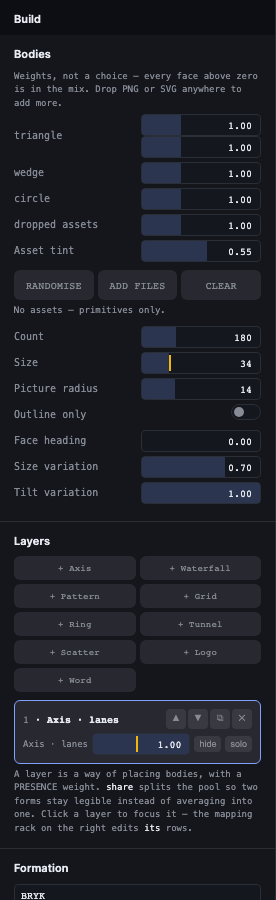
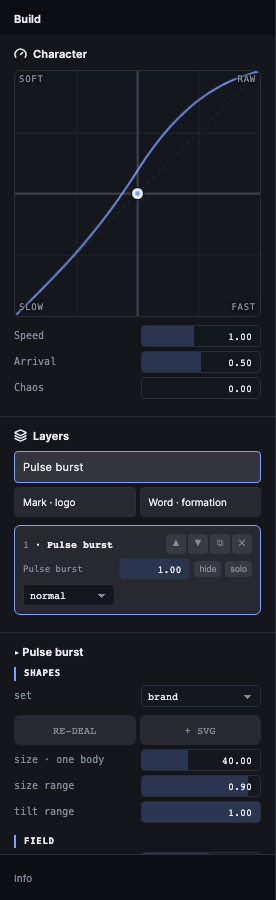
Distortion снят с панели, auto tilt и диапазон наклона тел
Панель Distortion · Vector убрана из левой колонки. Перед удалением проверил
UI-путь, которого мой гейт не касался ни разу (он ставил слоты в обход кнопки):
механически всё работало — нажатие создавало слот, силуэт менялся 160446 →
136227. Но «работает измеримо» и «работает» — разные вещи: на дефолтных
amount 0.35 / scale 1.6 liquid даёт мелкое зерно поверх и без того движущегося
поля, и эффект неотличим от собственной жизни сцены. Контрол, чей дефолт
незаметен, и есть контрол, который ничего не делает.

Математика оставлена в движке тем же приёмом, что диета пресетов: убран ВЫБОР,
не способность. Гейт переименован так, чтобы зелёная строка не читалась как
«в интерфейсе работает искажение» — она говорит только, что способность цела.

Auto tilt в Space. Копить наклон, как копится поворот, было бы неверно: поворот
живёт свободно, а наклон живёт в ±1 и означает, с какой стороны мы смотрим на
сцену — накопление уводило бы её через макушку раз за разом. Поэтому маятник:
у края ход разворачивается, сцена медленно качается и остаётся читаемой.
Замерено: −0.24 … 0.98, знак хода меняется, за предел не выходит.

Диапазон наклона тел выведен в основные ручки. Ручка была — varTilt, — но лежала
в свёрнутой секции между radius и tint под именем «tilt variation», то есть
ровно так, чтобы её никто не нашёл; отсюда и «непонятно, что на это влияет».
Теперь «tilt range» стоит третьей, сразу за калибром и его разбросом: это тот же
[…]

diff --git a/index.html b/index.html
@@ -538,6 +538,7 @@ legend svg{margin-right:6px;vertical-align:-2px;flex:none}
       <div class="row"><label>Zoom</label><span data-mnt="zoom"></span></div>
       <div class="row"><label>Tilt</label><span data-mnt="tilt"></span></div>
       <div class="row"><label title="Degrees per second the whole scene turns. Drivable from the rack as cam.spin">Auto spin</label><span data-mnt="spin"></span></div>
+      <div class="row"><label title="How fast the scene rocks through its tilt. Swings between the limits instead of tumbling over">Auto tilt</label><span data-mnt="sway"></span></div>
       <p class="note">Drag the stage to orbit, wheel to zoom, double-click to reset.</p>
     </fieldset>
 
@@ -568,13 +569,19 @@ legend svg{margin-right:6px;vertical-align:-2px;flex:none}
       <p class="note" id="assetNote">No assets — primitives only.</p>
     </fieldset>
 
-    <!-- Векторные искажения (Роб, видео 4:52). Место — ВНИЗУ ЛЕВОЙ колонки, как в
-         Synthex («слева-снизу» в его словах): это правка ГЕОМЕТРИИ слоя, а не
-         мастеринг кадра, поэтому живёт с тем, что описывает слой, а не с
-         пост-эффектами справа. Сначала я поставил её справа — мимо: там мастеринг. -->
-    <fieldset id="gDist"><legend>Distortion · Vector</legend>
-      <div id="distStack"></div>
-    </fieldset>
+    <!-- Панель Distortion · Vector снята (Роб, 2026-07-20: «убери вкладку
+         distortion vector, он вообще ничего не делает»).
+         Механически он работал — нажатие кнопки создавало слот и картинка менялась
+         (силуэт 160446 → 136227 на замере руками). Но с кресла оператора «работает
+         измеримо» и «работает» — разные вещи: на дефолтных amount 0.35 / scale 1.6
+         liquid даёт мелкое зерно поверх и без того движущегося поля, и эффект
+         неотличим от собственной жизни сцены. Контрол, чей дефолт незаметен, и
+         есть контрол, который ничего не делает.
+         Математика (DISTORT_FIELDS, compileDistortion, applyDistortion) оставлена
+         в движке нетронутой — тем же приёмом, что диета пресетов: убран ВЫБОР, не
+         способность. Вернуть = вернуть филдсет и вызов renderDistortion, но с
+         дефолтами, которые видно с первого клика. -->
+
 
 
     <!-- Program extras: controls that cannot be generated from a param declaration
@@ -1018,7 +1025,11 @@ const physFallback=DEF_PHYS();
    `state.cam` survives as an accessor onto the focused layer, because the Space panel, the
    stage drag, the wheel and the rack all address it by that name — they now speak to «the
    layer you are looking at». */
-const DEF_CAM=()=>({ persp:0, zoom:1, tilt:0, spin:0, yaw:0 });
+/* `sway` — авто-наклон (Роб, 2026-07-20: «добавь ещё значение в space, как auto
+   spin, так же auto tilt»). Отдельное поле рядом со spin, а не режим наклона:
+   spin копит yaw, и наклон должен копиться так же, иначе это разные механики под
+   похожими именами. `swayDir` — направление хода, см. интегратор. */
+const DEF_CAM=()=>({ persp:0, zoom:1, tilt:0, spin:0, yaw:0, sway:0, swayDir:1 });
 const camFallback=DEF_CAM();
 Object.defineProperty(state,'cam',{
   enumerable:true, configurable:true,
@@ -2828,7 +2839,7 @@ const LOOK_PARAMS=[
      addLayer): первому отделяться не от чего, а вот третий без границы теряется. */
   {key:'backing', label:'слой · подложка', min:0, max:1, step:0.01, def:0, hard:1},   /* a toggle. Two states are a strobe, not a modulation */
   {key:'face',    label:'face heading',   min:0,  max:1,   step:0.01, def:0},
-  {key:'varTilt', label:'tilt variation', min:0,  max:1,   step:0.01, def:1,  hard:1},
+  {key:'varTilt', label:'tilt range',     min:0,  max:1,   step:0.01, def:1,  hard:1},
   /* ── which of these is worth putting a beat on ────────────────────────────────
      Rob, on the mapping picker: «вариации бессмысленные». The list was everything
      `paramsOf` returns, in declaration order, so a knob that re-deals the whole crowd sat
@@ -3234,7 +3245,8 @@ const CAM_PARAMS = [
   { key:'cam.zoom',  f:'zoom',  label:'zoom',        min:0.4,max:2.4, step:0.01 },
   { key:'cam.tilt',  f:'tilt',  label:'tilt',        min:-1, max:1,   step:0.01 },
   { key:'cam.yaw',   f:'yaw',   label:'yaw',         min:-3.2,max:3.2,step:0.01, mod:'slow' },
-  { key:'cam.spin',  f:'spin',  label:'auto spin',   min:-0.5,max:0.5,step:0.005 }
+  { key:'cam.spin',  f:'spin',  label:'auto spin',   min:-0.5,max:0.5,step:0.005 },
+  { key:'cam.sway',  f:'sway',  label:'auto tilt',   min:0,   max:0.5, step:0.005 }
 ];
 const PHYS_PARAMS = [
   /* spring to the layout target. k = 1−exp(−dt·follow); at 10 that is 0.15/frame, already
@@ -3406,7 +3418,7 @@ const SCRUB_FOR = { 'size':'size','cam.persp':'persp','cam.zoom':'zoom','cam.til
   'satDrift':'satDrift',
   'phys.follow':'follow','phys.damp':'damp','phys.collide':'collide','phys.radius':'pradius',
   'phys.swirl':'swirl','phys.attract':'attract','phys.gravity':'gravity','phys.flock':'flock',
-  'logoAvoid':'logoAvoid','cam.spin':'spin' };
+  'logoAvoid':'logoAvoid','cam.spin':'spin','cam.sway':'sway' };
 /* Any edit OUTSIDE the matrix must rewrite the base, or the drive overwrites the
    user's hand on the very next frame (the classic EQJ trap). */
 function rebase(key,v){ /* bases are keyed layer::path — clear every match for this path */
@@ -4449,6 +4461,7 @@ const MAP_GROUPS=[
     ['cam.persp', 'перспектива'],
     ['cam.zoom',  'зум'],
     ['cam.spin',  'автоспин'],
+    ['cam.sway',  'авто-наклон'],
     ['cam.tilt',  'наклон'],
     ['cam.yaw',   'поворот']]],
   ['SWIRL · вихрь и снос', [
@@ -4568,7 +4581,7 @@ function syncAllScrubs(){
     /* the view is per layer now, so these four read the FOCUSED layer's — without this the
        Space panel kept showing the numbers of whichever layer was focused when the app
        booted, while the drag moved a different one */
-    persp:state.cam.persp, zoom:state.cam.zoom, tilt:state.cam.tilt, spin:state.cam.spin,
+    persp:state.cam.persp, zoom:state.cam.zoom, tilt:state.cam.tilt, spin:state.cam.spin, sway:state.cam.sway,
     /* the macro faders are panel pose: a scene recall must move them to where they sat */
     mSpeed:state.motion.speed, mChar:state.motion.y, mChaos:state.motion.chaos,
     kSectors:state.kaleido.sectors, kRoll:state.kaleido.roll, kRate:state.kaleido.rate,
@@ -4623,7 +4636,8 @@ for(const [slot,key,cfg] of [
   ['persp','cam.persp',{min:0,max:1.2,step:0.01,label:'Perspective'}],
   ['zoom', 'cam.zoom', {min:0.4,max:2.4,step:0.01,label:'Zoom'}],
   ['tilt', 'cam.tilt', {min:-1,max:1,step:0.01,label:'Tilt'}],
-  ['spin', 'cam.spin', {min:-0.5,max:0.5,step:0.005,label:'Auto spin'}]])
+  ['spin', 'cam.spin', {min:-0.5,max:0.5,step:0.005,label:'Auto spin'}],
+  ['sway', 'cam.sway', {min:0,max:0.5,step:0.005,label:'Auto tilt'}]])
   mount(slot,{...cfg, value:state.cam[key.slice(4)], allowExtend:true,
     onInput:v=>{ const L=activeLayer(); if(L) setLayerDriven(L,key,v); }});
 mount('bgL',{min:0.05,max:0.4,step:0.005,value:state.bgL,label:'Background lightness',
@@ -4951,8 +4965,6 @@ function renderDistortion(){
     add.setAttribute('aria-expanded',pick.hidden?'false':'true'); });
   wrap.append(add,pick); host.appendChild(wrap);
 }
-renderDistortion();
-
 /* ── scenes · rack ── */
 /* Кнопки приёмов, селектор Quantise и тумблер Auto-randomise жили в снятой панели.
    Их слушатели удалены здесь же: querySelector по исчезнувшему узлу — это null и
@@ -5004,7 +5016,7 @@ const DESC={
   'stroke':'Draw bodies as outlines instead of fills',
   'face':'0 = billboard facing you, 1 = each body turns into its own heading',
   'varSize':'0 = every body the same calibre, 1 = full spread',
-  'varTilt':'0 = all at one angle, 1 = every body its own tilt',
+  'varTilt':'How far bodies are allowed to differ in tilt. 0 = the whole field at one angle, 1 = every body its own. The angles themselves are seeded — RE-DEAL rolls them again',
 
   /* ── forces ────────────────────────────────────────────────────────── */
   'behSel':'Motion Primer preset — a whole force set at once, overwrites the sliders below',
@@ -5388,7 +5400,6 @@ function renderLayers(){
   renderFocus();
   /* стек искажений принадлежит СЛОЮ, поэтому едет за фокусом вместе с карточкой:
      панель, показывающая чужие слоты, врёт ровно так же, как показывающая чужие ручки */
-  if(typeof renderDistortion==='function') renderDistortion();
 }
 
 /* ── the focused layer's settings, one section, below the stack ──────────────────
@@ -5540,7 +5551,15 @@ function renderFocus(){
      What stays: the four words (density · scale · spacing · size) and the four forces you
      actually reach for mid-set. Everything else is preparation — set once, then forget —
      and lives one click away. The rows are identical either way; only the fold moves. */
-  const PRIMARY_LOOK=['size','varSize'];
+  /* Роб, 2026-07-20: «добавь в pulse burst в общих настройках, насколько мы
+     допускаем диапазон наклона объекта — некоторые объекты слишком сильно
+     привязаны к исходным своим положениям… непонятно, что на это влияет, надо
+     вывести более явно».
+     Ручка была — `varTilt`, — но лежала в свёрнутой секции между `radius` и
+     `tint` под именем «tilt variation», то есть ровно там и так, чтобы её никто
+     не нашёл. Разброс наклонов — свойство того же регистра, что калибр тела:
+     чем поле отличается от самого себя. Поэтому встаёт рядом с ними. */
+  const PRIMARY_LOOK=['size','varSize','varTilt'];
   const PRIMARY_MOTION=['phys.swirl','phys.collide','phys.attract','phys.follow'];
   const rest=[];
   const restCap=t=>rest.push({cap:t});
@@ -5601,7 +5620,7 @@ function renderFocus(){
 
   /* ── the fold ── */
   restCap('marks');
-  restRows(['angles','radius','stroke','varTilt','tint'].map(byKey));
+  restRows(['angles','radius','stroke','tint'].map(byKey));
   restCap('web · flow');
   restRows(['links','linkDist','linkMax','streak','smear'].map(byKey));
   restCap('lava · detail');
@@ -6445,6 +6464,15 @@ function frame(){
      отдельно». `setLayerDriven`, not a raw +=, because yaw is modulatable and a bare
      assignment is undone by restoreMatrix at the foot of the frame. */
   for(const L of layers) if(L.cam && L.cam.spin) setLayerDriven(L,'cam.yaw', L.cam.yaw + L.cam.spin*dt);
+  /* Авто-наклон ходит МАЯТНИКОМ, а не наматывается как поворот. Наклон живёт в
+     ±1 и означает, с какой стороны мы смотрим на сцену; накопление уводило бы её
+     через макушку раз за разом — это уже не «оживить», а кувырок. У края ход
+     разворачивается, поэтому сцена медленно качается и всегда остаётся читаемой. */
+  for(const L of layers){ const C=L.cam; if(!C||!C.sway) continue;
+    if(C.swayDir==null) C.swayDir=1;
+    let nt=C.tilt + C.sway*C.swayDir*dt;
+    if(nt>1){ nt=1; C.swayDir=-1; } else if(nt<-1){ nt=-1; C.swayDir=1; }
+    setLayerDriven(L,'cam.tilt',nt); }
 
   /* A preset with its own `step` integrates ITSELF — that is what a Motion Primer
      behaviour is. Its bodies still go through the shared blend afterwards, but their